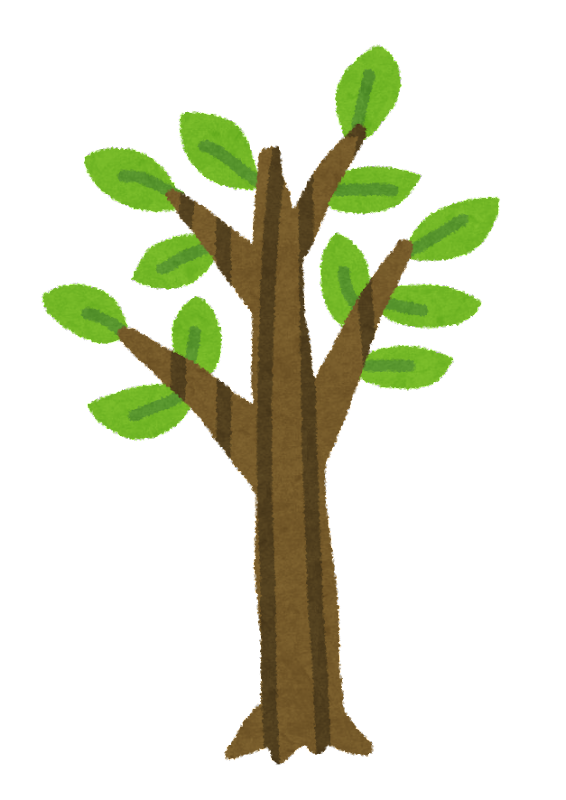
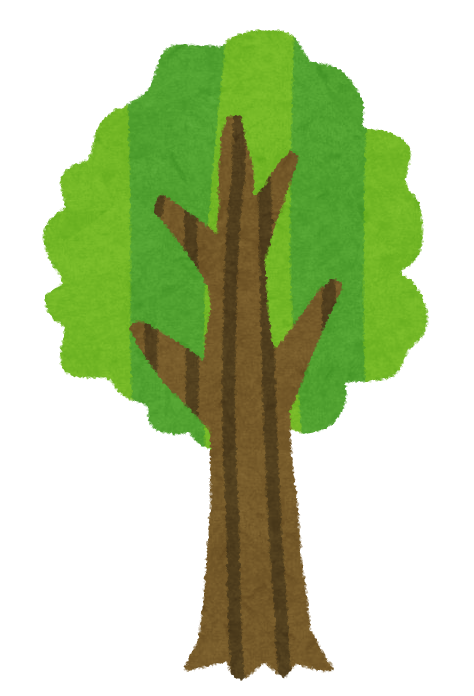
feat : HomeScreen_Tree,Flower level 연결 (#65)

diff --git a/src/screens/AchieveScreen.tsx b/src/screens/AchieveScreen.tsx
@@ -11,7 +11,7 @@ import {SafeAreaView} from 'react-native-safe-area-context';
 import {useRecoilValue} from 'recoil';
 import {useRef, useState} from 'react';
 import flower_growings8 from '../assets/growings/flower_growings8.png';
-import tree_growings9 from '../assets/growings/tree_growings9.png';
+import tree_growings7 from '../assets/growings/tree_growings7.png';
 import * as Progress from 'react-native-progress';
 import {useMonthAchieve, useWeekAchieve} from '@/query/goal';
 import {FlowerImage, TreeImage} from '@/utils/plant';
@@ -69,7 +69,7 @@ export default function AchieveScreen({}: AchieveScreenProps) {
               family="round-b"
               text="달성하신 업적은            "
             />
-            <AppText.Title family="round-b" text={'총' + all + '개 입니다.'} />
+            <AppText.Title family="round-b" text={'총 ' + all + '개 입니다.'} />
             <View style={styles.SubTitle}>
               <AppText
                 family="round-b"
@@ -109,7 +109,7 @@ export default function AchieveScreen({}: AchieveScreenProps) {
             </View>
             <View style={styles.AchieveContainer}>
               <Image
-                source={tree_growings9}
+                source={tree_growings7}
                 resizeMode="contain"
                 style={styles.Image}
               />
@@ -145,12 +145,12 @@ const styles = StyleSheet.create({
     paddingHorizontal: 30,
     paddingVertical: 10,
     backgroundColor: '#b2dcff',
-    borderRadius: 10,
+    borderRadius: 20,
     marginBottom: 30,
     justifyContent: 'center',
     ...Platform.select({
       android: {
-        elevation: 30,
+        elevation: 40,
       },
     }),
   },
@@ -162,12 +162,12 @@ const styles = StyleSheet.create({
     height: '50%',
     paddingHorizontal: 20,
     paddingVertical: 20,
-    borderRadius: 10,
+    borderRadius: 20,
     backgroundColor: '#b2dcff',
     flexDirection: 'column',
     ...Platform.select({
       android: {
-        elevation: 30,
+        elevation: 40,
       },
     }),
   },

diff --git a/src/screens/HomeScreen.tsx b/src/screens/HomeScreen.tsx
@@ -1,5 +1,5 @@
 /* eslint-disable react-native/no-inline-styles */
-import {useRef} from 'react';
+import {useEffect, useRef, useState} from 'react';
 import {
   Platform,
   StyleSheet,
@@ -18,13 +18,29 @@ import backgroundImage from '../assets/backgroundImage.jpg';
 import {useRecoilValue} from 'recoil';
 import flowerAtom from '@/atom/flowerAtom';
 import treeAtom from '@/atom/treeAtom';
+import Utils from '@/utils';
 
 export default function HomeScreen() {
   const captureRef = useRef<any>(null);
   const flower = useRecoilValue(flowerAtom);
   const tree = useRecoilValue(treeAtom);
 
+  const [day, setDay] = useState(0);
+  const [Tlevel, setTLevel] = useState(0);
+
   const date = new Date();
+
+  useEffect(() => {
+    const d = new Date();
+    const lastDay = Utils.lastDay(d);
+    setTLevel(Math.floor(lastDay / 6));
+
+    if (d.getDay() === 0) {
+      setDay(7);
+    } else {
+      setDay(d.getDay());
+    }
+  }, []);
 
   const onCapture = () => {
     try {
@@ -50,8 +66,6 @@ export default function HomeScreen() {
   };
 
   return (
-    // <SafeAreaView style={styles.Container}>
-    // <ScrollView style={{minHeight: '100%', backgroundColor: 'red'}}>
     <ImageBackground
       imageStyle={{minHeight: '100%'}}
       style={{minHeight: '100%'}}
@@ -72,8 +86,8 @@ export default function HomeScreen() {
                 </TouchableOpacity>
               </View>
               <View style={styles.PlantContainer}>
-                <GrowingPlant kind="tree" level={9} type={tree} />
-                <GrowingPlant kind="flower" level={9} type={flower} />
+                <GrowingPlant kind="tree" level={Tlevel} type={tree} />
+                <GrowingPlant kind="flower" level={day} type={flower} />
               </View>
             </View>
           </ViewShot>
@@ -81,8 +95,6 @@ export default function HomeScreen() {
         </View>
       </ScrollView>
     </ImageBackground>
-    // </ScrollView>
-    // </SafeAreaView>
   );
 }
 

diff --git a/src/utils/plant.ts b/src/utils/plant.ts
@@ -5,6 +5,7 @@ import flower_growings3 from '../assets/growings/flower_growings3.png';
 import flower_growings4 from '../assets/growings/flower_growings4.png';
 import flower_growings5 from '../assets/growings/flower_growings5.png';
 import flower_growings6 from '../assets/growings/flower_growings6.png';
+
 import acacia from '../assets/flowers/acacia.png';
 import apricot from '../assets/flowers/apricot.png';
 import azalea from '../assets/flowers/azalea.png';
@@ -40,7 +41,7 @@ import tree_growings4 from '../assets/growings/tree_growings4.png';
 import tree_growings5 from '../assets/growings/tree_growings5.png';
 import tree_growings6 from '../assets/growings/tree_growings6.png';
 import tree_growings7 from '../assets/growings/tree_growings7.png';
-import tree_growings8 from '../assets/growings/tree_growings8.png';
+
 import autumn_tree from '../assets/trees/autumn_tree.png';
 import bamboo from '../assets/trees/bamboo.png';
 import banana_tree from '../assets/trees/banana_tree.png';
@@ -58,6 +59,7 @@ import summer_tree from '../assets/trees/summer_tree.png';
 import wedding_cake_tree from '../assets/trees/wedding_cake_tree.png';
 import willow from '../assets/trees/willow.png';
 import winter_tree from '../assets/trees/winter_tree.png';
+
 import {ImageSourcePropType} from 'react-native';
 
 export const MAX_FLOWER_LEVEL = 7;
@@ -178,7 +180,6 @@ export const TreeGrowImage = [
   tree_growings5,
   tree_growings6,
   tree_growings7,
-  tree_growings8,
 ];
 
 export const FlowerImage = [

diff --git a/src/utils/index.ts b/src/utils/index.ts
@@ -46,6 +46,13 @@ class Utils {
     return [year, month, day];
   }
 
+  static lastDay(date: Date) {
+    const y = date.getFullYear();
+    const m = date.getMonth();
+    const last = new Date(y, m + 1, 0);
+    return last.getDate();
+  }
+
   static orderBy<T>(
     entry: T[],
     ascending: boolean,

diff --git a/types/api.d.ts b/types/api.d.ts
@@ -55,12 +55,6 @@ export interface IWeekGoal {
   week: number;
 }
 
-export interface IAchieve {
-  id: number;
-  user_id: string;
-  achieve_title: string;
-  monthAchieve: number;
-  weekAchieve: number;
 export interface ITransaction {
   amount: number;
   bankName: string;
